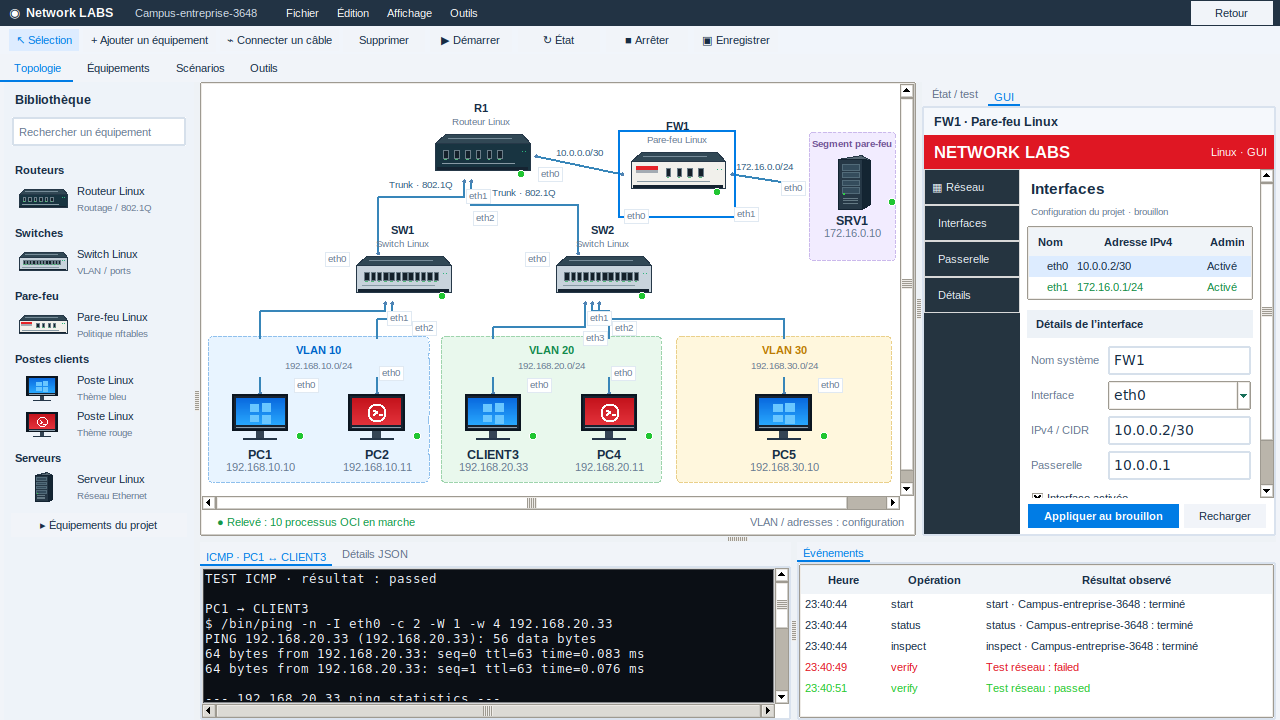
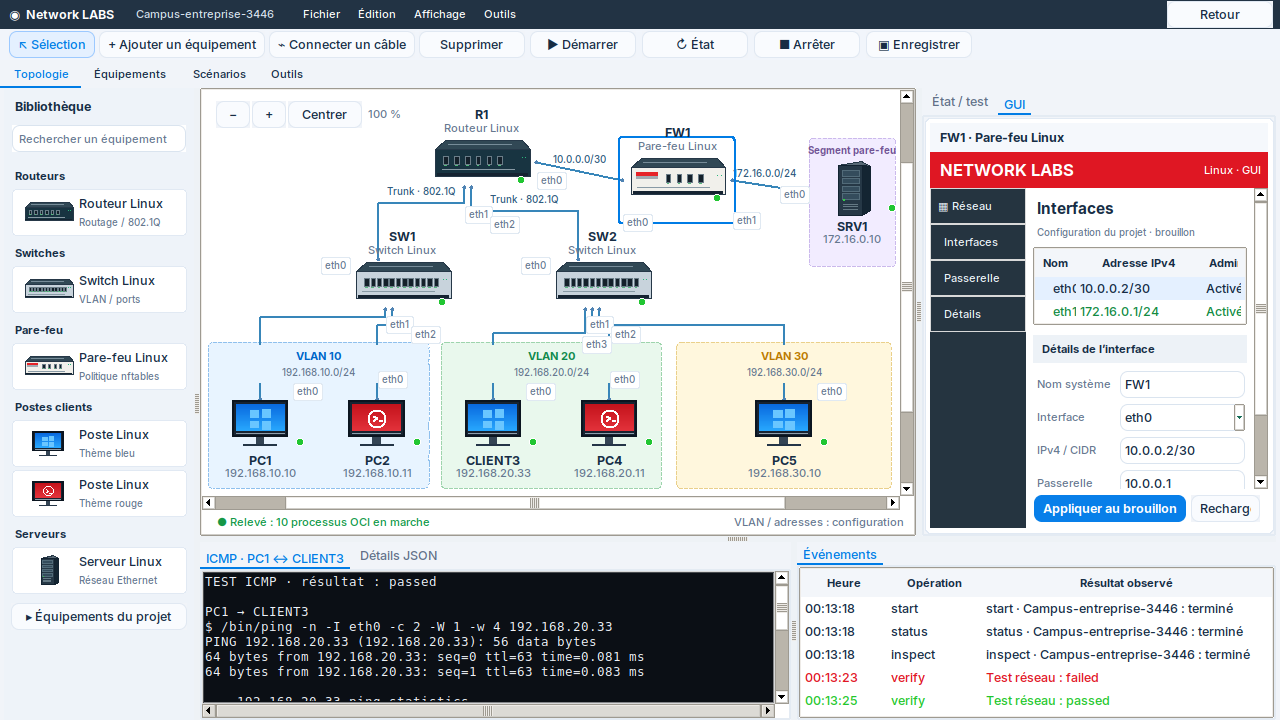
Record verified Inter GUI and normal/zoomed native screenshots [skip ci]

diff --git a/docs/CODEX_HANDOFF.md b/docs/CODEX_HANDOFF.md
@@ -21,7 +21,38 @@ the shell and essential native workflows, then graphical editing and supported
 configuration. Keep providing real implementation screenshots. LAN core stays
 accepted; VXLAN remains tracked after LAN/GUI.
 
-## Current GUI polish checkpoint
+## Current GUI typography and interaction checkpoint
+
+Latest user feedback rejects the old typeface and sharp edges and explicitly
+requests an interactive interface. Source
+`217be17f7416eefc0330f70e8e103ae9bb07f0c1` bundles the original SIL-OFL Inter
+font, privately registered through Fontconfig on Linux without installing
+fonts or spawning helpers. Rounded antialiased buttons/fields, library cards,
+selection outlines and management panel retain the supplied reference palette.
+
+Actual wheel zoom, explicit zoom/reset controls, middle-button or Shift-drag
+pan, connected-wire hover highlighting and double-click device configuration
+are implemented. Session node dragging works under zoom. View-only gestures
+preserve the manifest and never invoke sudo. Existing validated offline
+configuration/cabling and real native lifecycle/probes remain. The diagnostic
+pane is read-only: genuine native interactive consoles/capture and richer
+supported forms are still pending. LAN core remains frozen 7/7; static VXLAN
+stays on the later roadmap.
+
+Local Xvfb/system-Tk regression passed 1049 cases (41.476 s, 141 environment
+skips); fourteen focused native workbench checks passed, including actual
+wheel/pan/hover/double-click events and scaled drag coordinates. The dedicated
+GitHub native scenario additionally asserts Inter and saves normal/135% views.
+
+The [desktop/native job](https://github.com/sou1915/Network-LABS/actions/runs/42316748403/job/128231116270)
+passed 1049 general cases (47.387 s, 116 skips) plus the real campus scenario
+(10.402 s). Current screenshot/report/provenance bind to source 217be17 and
+artifact 13550324801; the new zoomed screenshot is also retained. The report
+confirms Inter Variable, zoom, routed success, firewall-path failure, seven
+UID-1001 result files, root-state refusal, confirmed stop and no callback errors.
+Host cleanup invariants passed. See NATIVE_GUI_FLOW.md for remaining scope.
+
+## Previous GUI polish checkpoint
 
 Source `f27f49fdd7021200840fcacb5f99636a229eda96` improves the reference-style
 campus: collision-aware port labels, larger host captions, synchronized page

diff --git a/docs/NATIVE_GUI_FLOW.md b/docs/NATIVE_GUI_FLOW.md
@@ -93,8 +93,8 @@ preceded this GUI increment. LAN protocol behavior was unchanged.
 This is the actual Xvfb capture after real native verification.
 The public [operation report](images/native-gui-result.json) records the UI UID,
 result-file owners, native probe and stop outcome. The
-[provenance record](images/native-gui-provenance.json) binds both files to
-artifact 13549022791, source commit and run/job, with the verified original ZIP
+[provenance record](images/native-gui-provenance.json) binds both screenshots and the report to
+artifact 13550324801, source commit and run/job, with the verified original ZIP
 SHA-256 and individual file hashes. The desktop/native job passed on the same commit.
 
 ## Previous desktop layout (rejected as the design reference)
@@ -491,3 +491,19 @@ manifests, correct node movement under zoom, and no backend launch from view
 operations. The dedicated native scenario checks the chosen Inter family and
 zoom behavior before starting the real campus, then captures both normal and
 135% views after actual routed and blocked probes.
+
+
+The [desktop/native job](https://github.com/sou1915/Network-LABS/actions/runs/42316748403/job/128231116270)
+passed on source `217be17f7416eefc0330f70e8e103ae9bb07f0c1`: 1049 general
+cases (47.387 s, 116 skips) and the real campus scenario (10.402 s).
+The report confirms `Inter Variable`, verified zoom, ten nodes/nine links,
+successful inter-VLAN traffic, firewall-blocked server traffic, seven UID-1001
+result files, root-state read refusal, confirmed stop and no callback errors.
+Host network cleanup checks passed. Local full Xvfb regression passed 1049
+cases (41.476 s, 141 skips). Artifact 13550324801 has verified ZIP SHA-256
[1 lines of base64/hex data omitted]
+individual hashes and exact source/run/job binding are in the provenance JSON.
+
+[Actual 135% zoom capture](images/native-gui-zoomed.png) complements the normal
+running capture above. It shows a zoomed viewport, not a changed topology.
+No runtime, protocol, Manager or privilege implementation changed.

diff --git a/docs/PROJECT_STATUS.md b/docs/PROJECT_STATUS.md
@@ -6,8 +6,10 @@ defer advanced extensions, then integrate the native GUI. The frozen
 It is accepted: **7/7 essential checks passed** on one source revision. Native
 GUI integration is in progress: the first native lifecycle/observation/traffic
 flow and basic graphical topology editing are verified. Work continues
-toward the actual user-supplied mockup, with basic native device forms now implemented; photos, VLAN visual
-groups, richer forms, interactive consoles and packet views remain pending.
+toward the actual user-supplied mockup. The ten-node routed campus, generic
+device artwork, VLAN groups, basic native device forms, rounded Inter UI and
+interactive topology viewport are implemented. Richer forms, interactive native
+consoles and packet views remain pending.
 Older broad-catalogue percentages below
 are historical planning estimates, not a completion counter for this gate.
 No protocol/security assertion is relaxed by this scope decision.

diff --git a/docs/LAN_NEXT_STEPS.md b/docs/LAN_NEXT_STEPS.md
@@ -2481,3 +2481,11 @@ automatic peer recovery/persistent NAS supervision, stronger EAP/TLS,
 multi-client/dynamic VLAN/accounting and wider switching remain open. LAN
 precedes native GUI; static VXLAN and separate EVPN/BGP/WAN remain tracked.
 Planning estimates stay LAN about 80%, whole product about 45–50%.
+
+
+The GUI now has privately loaded Inter typography, rounded controls/cards and
+actual topology wheel zoom, middle-button/Shift-drag pan, hover highlighting and
+double-click configuration. View changes do not alter the manifest or invoke
+sudo. Preserve these interactions and the supplied reference while continuing
+the remaining native console/capture workflow. LAN core remains frozen 7/7;
+static VXLAN is still an explicit later roadmap item.
